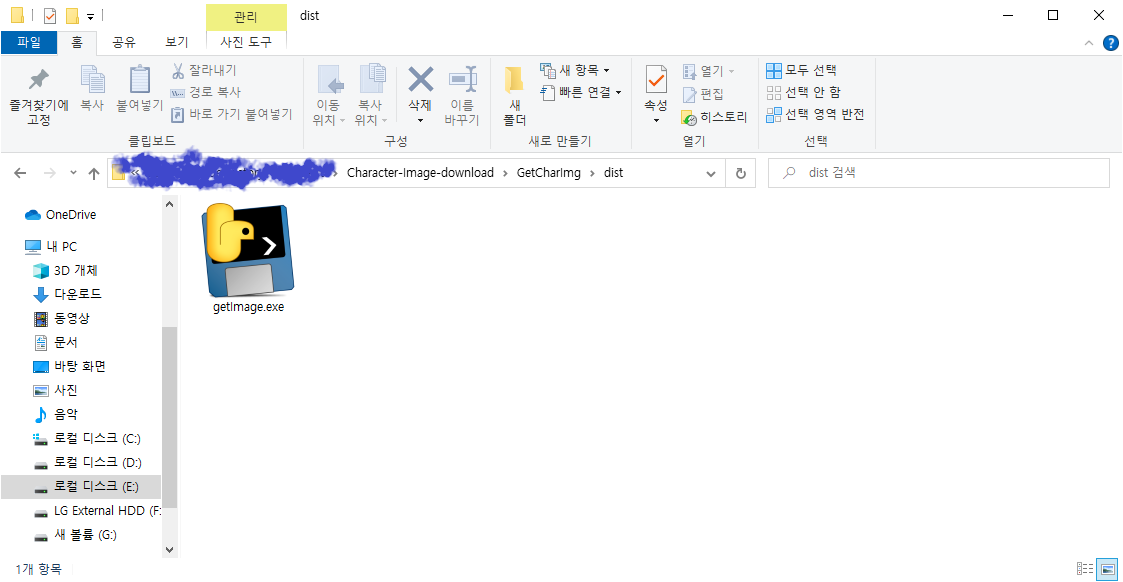
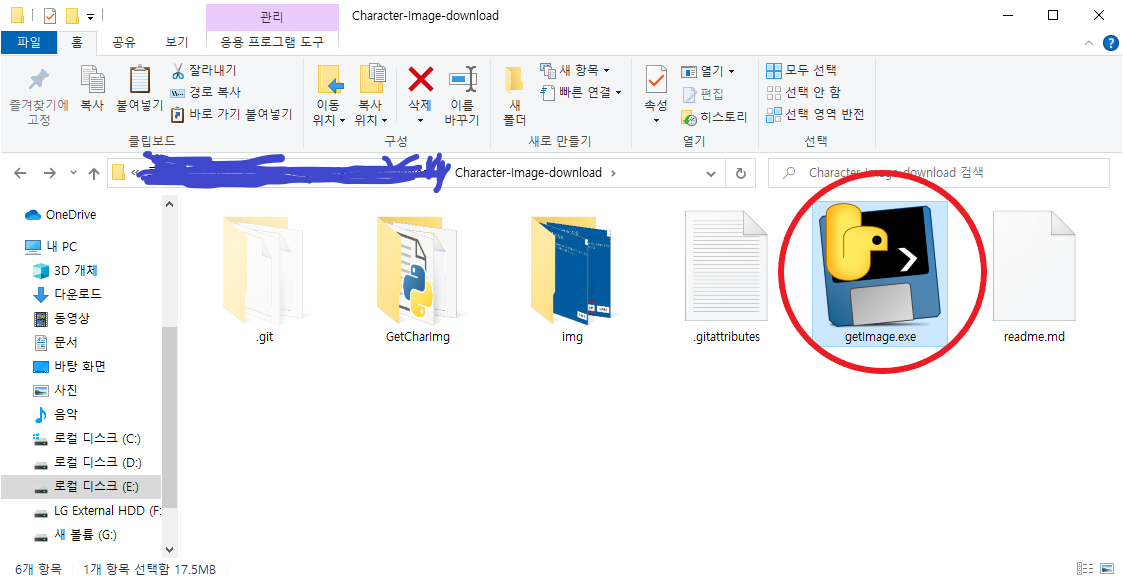
ㅅ

diff --git a/readme.md b/readme.md
@@ -12,13 +12,8 @@
     압축을 해제하자.
 
 <img src="./img/파일다운로드.png"/>
-    
-    다운로드 받은 폴더에서 GetCharImg > dist 폴더로 들어가 준다.
 
-<img src="./img/첫화면0.png"/>
-<img src="./img/첫화면1.png"/>
-
-    dist 폴더에서 getImage 실행파일을 실행시킨다.
+    getImage 실행파일을 실행시킨다.
     
 <img src="./img/실행전.png"/>
 
